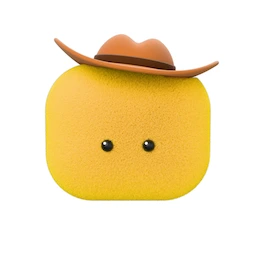
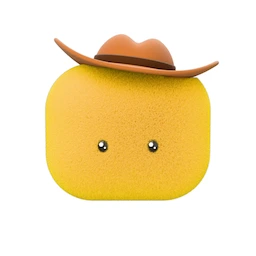
Bots: the PM's new eyes (bigger, oval, sparkling, set into the plush)
Its blink loop is paused until it's re-rendered with the new eyes; the hero shows the still meanwhile.

Changed region(s): [[0.5312, 0.5312, 0.625, 0.5938], [0.375, 0.5312, 0.4688, 0.5938]]

diff --git a/src/components/ask/team.ts b/src/components/ask/team.ts
@@ -14,7 +14,7 @@ export const TEAM: Record<BotId, Bot> = {
     colour: "#F1BA3A",
     tint: "#FDF3D6",
     poster: "/images/bots/team/pm",
-    video: "/videos/bots/pm-idle", // a gentle breathe and one sweet blink (2 s loop), in the welcome hero
+    // video: "/videos/bots/pm-idle" — off until the blink loop is re-rendered with the new eyes
   },
   builder: {
     id: "builder",
